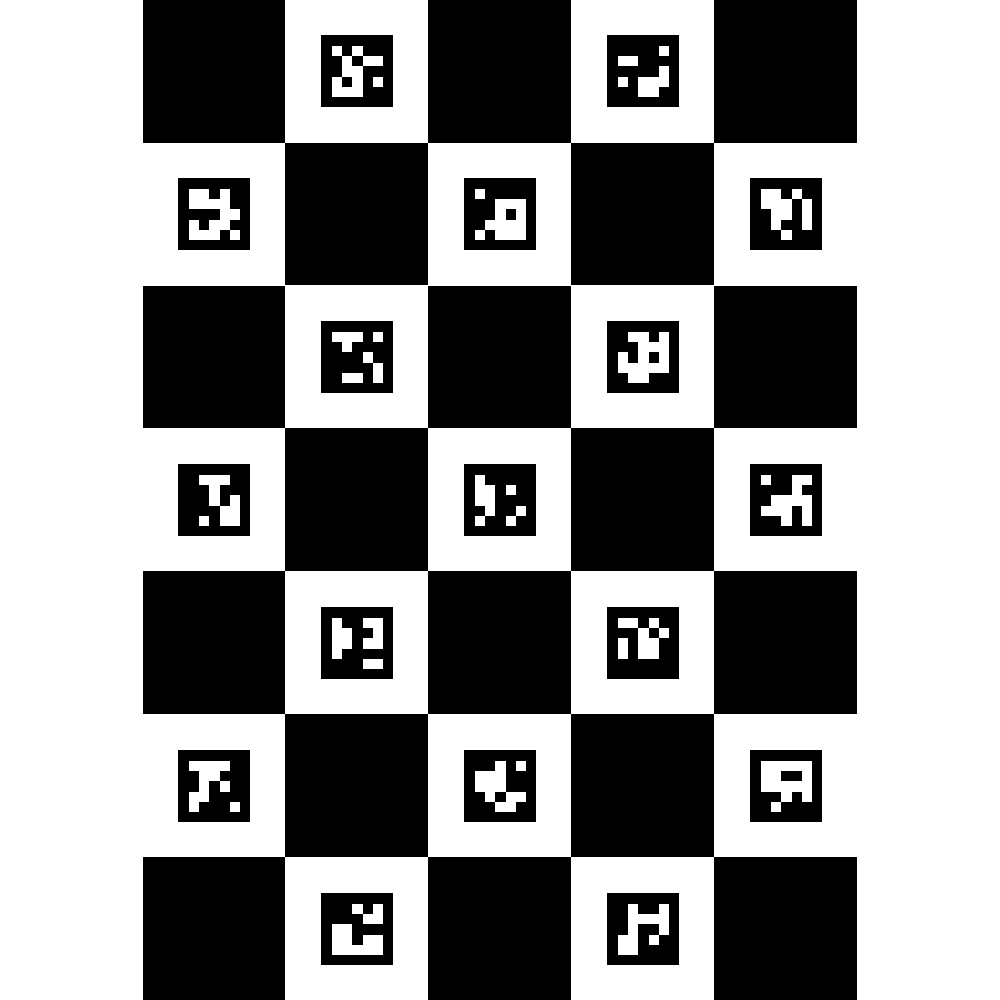
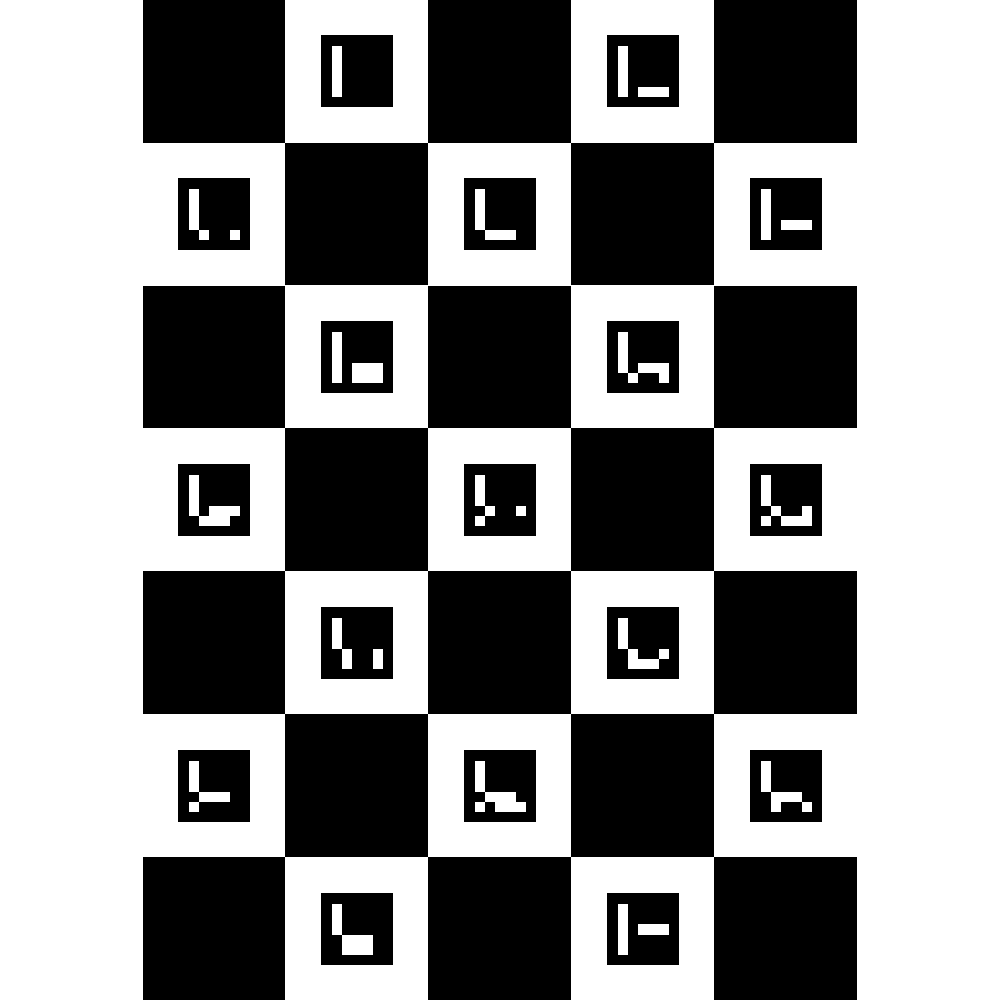
Using default aruco dict

diff --git a/tello_pose_experimentation/5_pose_estimation.py b/tello_pose_experimentation/5_pose_estimation.py
@@ -77,8 +77,6 @@ send("command")
 time.sleep(1)
 send("streamon")
 
-
-
 #--- Define Tag
 id_to_find  = 0
 marker_size  = 10 #- [cm]
@@ -141,7 +139,7 @@ R_flip[1,1] =-1.0
 R_flip[2,2] =-1.0
 
 #--- Define the aruco dictionary
-aruco_dict  = aruco.getPredefinedDictionary(aruco.DICT_5X5_1000)
+aruco_dict  = aruco.getPredefinedDictionary(aruco.DICT_ARUCO_ORIGINAL)
 parameters  = aruco.DetectorParameters_create()
 
 
@@ -169,6 +167,8 @@ while True:
     #-- Find all the aruco markers in the image
     corners, ids, rejected = aruco.detectMarkers(image=gray, dictionary=aruco_dict, parameters=parameters,
                               cameraMatrix=camera_matrix, distCoeff=camera_distortion)
+
+    print(ids)
     
     if ids is not None and ids[0] == id_to_find:
         
@@ -189,14 +189,26 @@ while True:
         str_position = "MARKER Position x=%4.0f  y=%4.0f  z=%4.0f"%(tvec[0], tvec[1], tvec[2])
         cv2.putText(frame, str_position, (0, 100), font, 1, (255, 255, 255), 2, cv2.LINE_AA)
 
-        min_distance, max_distance = (60, 80)
+        min_x_distance, max_x_distance = (-10, 10)
+        min_z_distance, max_z_distance = (80, 100)
+    
 
-        if tvec[2] < min_distance:
-            send("back 20")
-            print("flying backward: current_distance is: " + str(tvec[2]))
-        elif tvec[2] > max_distance:
-            send("forward 20")
-            print("flying forward: current_distance is: " + str(tvec[2]))
+
+        # X distance from marker
+        if tvec[0] < min_x_distance:
+            print("right")
+            send("left 20")
+        elif tvec[0] > max_x_distance:
+            print("left")
+            send("right 20")
+
+        # Z distance from marker
+        #if tvec[2] < min_z_distance:
+            #send("back 20")
+            #print("flying backward: current_distance is: " + str(tvec[2]))
+        #elif tvec[2] > max_z_distance:
+            #send("forward 20")
+            #print("flying forward: current_distance is: " + str(tvec[2]))
 
         # #-- Obtain the rotation matrix tag->camera
         # R_ct    = np.matrix(cv2.Rodrigues(rvec)[0])

diff --git a/tello_pose_experimentation/3_calibrate_camera.py b/tello_pose_experimentation/3_calibrate_camera.py
@@ -1,7 +1,3 @@
-# System information:
-# - Linux Mint 18.1 Cinnamon 64-bit
-# - Python 2.7 with OpenCV 3.2.0
-
 import numpy
 import cv2
 from cv2 import aruco
@@ -12,7 +8,7 @@ import glob
 # ChAruco board variables
 CHARUCOBOARD_ROWCOUNT = 7
 CHARUCOBOARD_COLCOUNT = 5 
-ARUCO_DICT = aruco.Dictionary_get(aruco.DICT_5X5_1000)
+ARUCO_DICT = aruco.Dictionary_get(aruco.DICT_ARUCO_ORIGINAL)
 
 # Create constants to be passed into OpenCV and Aruco methods
 CHARUCO_BOARD = aruco.CharucoBoard_create(
@@ -125,4 +121,4 @@ pickle.dump((cameraMatrix, distCoeffs, rvecs, tvecs), f)
 f.close()
     
 # Print to console our success
-print('Calibration successful. Calibration file used: {}'.format('tello_calibration.pckl'))
+print('Calibration successful. Calibration file saved: {}'.format('tello_calibration.pckl'))

diff --git a/tello_pose_experimentation/1_create_charuco_board.py b/tello_pose_experimentation/1_create_charuco_board.py
@@ -5,7 +5,7 @@ from cv2 import aruco
 # ChAruco board variables
 CHARUCOBOARD_ROWCOUNT = 7
 CHARUCOBOARD_COLCOUNT = 5 
-ARUCO_DICT = aruco.Dictionary_get(aruco.DICT_5X5_1000)
+ARUCO_DICT = aruco.Dictionary_get(aruco.DICT_ARUCO_ORIGINAL)
 
 # Create constants to be passed into OpenCV and Aruco methods
 board = CHARUCO_BOARD = aruco.CharucoBoard_create(

diff --git a/tello_pose_experimentation/4_display_pose.py b/tello_pose_experimentation/4_display_pose.py
@@ -7,7 +7,7 @@ import pickle
 
 marker_length = .04 # 4 cm
 aruco_params = aruco.DetectorParameters_create()
-aruco_dict = aruco.Dictionary_get(aruco.DICT_5X5_1000)
+aruco_dict = aruco.Dictionary_get(aruco.DICT_ARUCO_ORIGINAL)
 
 # Check for camera calibration data
 if not os.path.exists('./tello_calibration.pckl'):

diff --git a/tello_pose_experimentation/2_save_charuco_photos.py b/tello_pose_experimentation/2_save_charuco_photos.py
@@ -4,7 +4,7 @@ import time
 
 
 file_path = os.getcwd()
-#cap = cv2.VideoCapture(0)
+#cap = cv2.VideoCapture(0) # webcam
 cap = cv2.VideoCapture('udp://127.0.0.1:11111') # Tello video from stream
 #cap = cv2.VideoCapture('../videos/tello.avi') # Tello video from file
 
